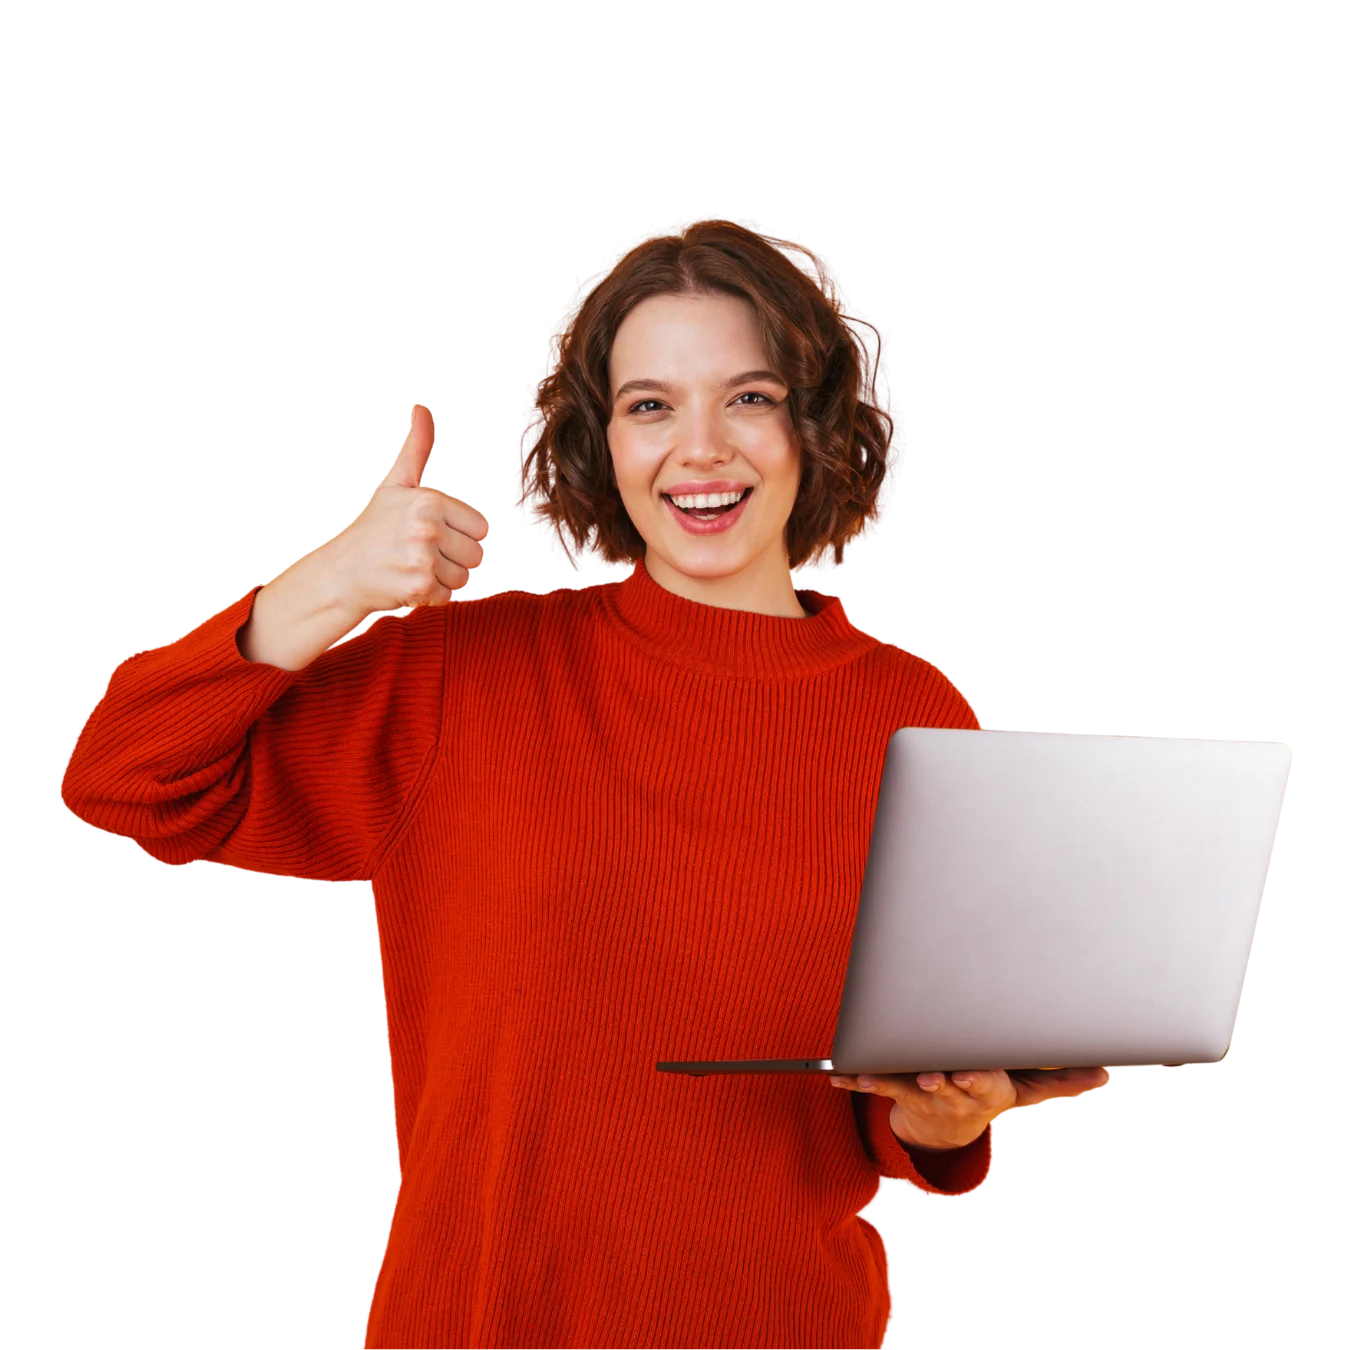
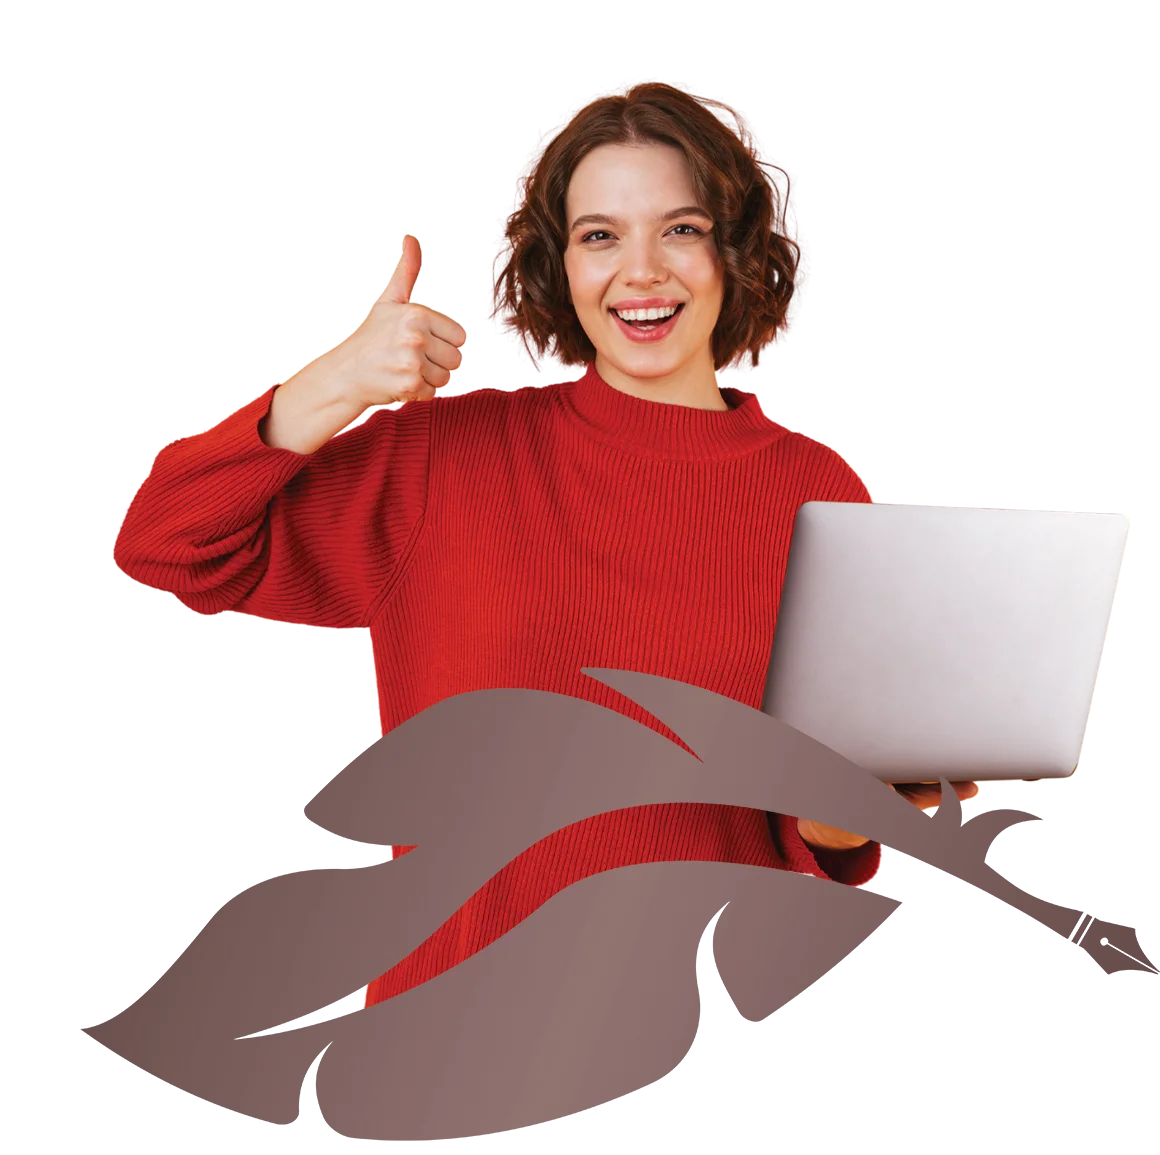
leaf img changes

diff --git a/app/layout.tsx b/app/layout.tsx
@@ -30,9 +30,14 @@ export default function RootLayout({
       >
         {children}
 
+        {/* Tawk error suppression and initialization */}
+        <Script id="tawk-init" strategy="beforeInteractive">
+          {`window.addEventListener('error', function(e){if(e.message && e.message.includes('i18next')){e.preventDefault();}}); if(!window.i18next){window.i18next=function(){};}`}
+        </Script>
+
         {/* Tawk.to live chat widget */}
         <Script id="tawk" strategy="afterInteractive">
-          {`var Tawk_API=Tawk_API||{}, Tawk_LoadStart=new Date();(function(){var s1=document.createElement("script"),s0=document.getElementsByTagName("script")[0];s1.async=true;s1.src='https://embed.tawk.to/69a7169ae2f23c1c34acc2db/1jiqb0jb0';s1.charset='UTF-8';s1.setAttribute('crossorigin','*');s0.parentNode.insertBefore(s1,s0);})();`}
+          {`var Tawk_API=Tawk_API||{}, Tawk_LoadStart=new Date();(function(){try{var s1=document.createElement("script"),s0=document.getElementsByTagName("script")[0];s1.async=true;s1.src='https://embed.tawk.to/69a7169ae2f23c1c34acc2db/1jiqb0jb0';s1.charset='UTF-8';s1.setAttribute('crossorigin','*');s0.parentNode.insertBefore(s1,s0);}catch(e){console.error('Tawk initialization error:',e);}})();`}
         </Script>
       </body>
     </html>

diff --git a/app/wikipedia-page-creation/components/Hero.jsx b/app/wikipedia-page-creation/components/Hero.jsx
@@ -59,16 +59,16 @@ export default function Hero() {
             <Image
               src={Img1}
               alt="Lady Image"
-              className="mx-auto w-[300px] md:w-[500px] h-auto"
+              className="mx-auto w-[300px] md:w-[700px] h-auto"
             />
           </div>
         </div>
       </div>
-      <Image
+      {/* <Image
         src={LeafImg}
         alt="Leaf"
         className="absolute -bottom-10 right-10 w-[50%] z-20"
-      />
+      /> */}
     </section>
   );
 }

diff --git a/app/wikipedia-consultant/components/Hero.jsx b/app/wikipedia-consultant/components/Hero.jsx
@@ -57,11 +57,11 @@ export default function Hero() {
           </div>
         </div>
       </div>
-      <Image
+      {/* <Image
         src={LeafImg}
         alt="Leaf"
         className="absolute -bottom-10 right-10 w-[50%] z-20"
-      />
+      /> */}
     </section>
   );
 }

diff --git a/app/wikipedia-editing/components/Hero.jsx b/app/wikipedia-editing/components/Hero.jsx
@@ -65,11 +65,11 @@ export default function Hero() {
           </div>
         </div>
       </div>
-      <Image
+      {/* <Image
         src={LeafImg}
         alt="Leaf"
         className="absolute -bottom-10 right-10 w-[50%] z-20"
-      />
+      /> */}
     </section>
   );
 }

diff --git a/app/wikipedia-publishing/components/Hero.jsx b/app/wikipedia-publishing/components/Hero.jsx
@@ -58,11 +58,11 @@ export default function Hero() {
           </div>
         </div>
       </div>
-      <Image
+      {/* <Image
         src={LeafImg}
         alt="Leaf"
         className="absolute -bottom-10 right-10 w-[50%] z-20"
-      />
+      /> */}
     </section>
   );
 }
